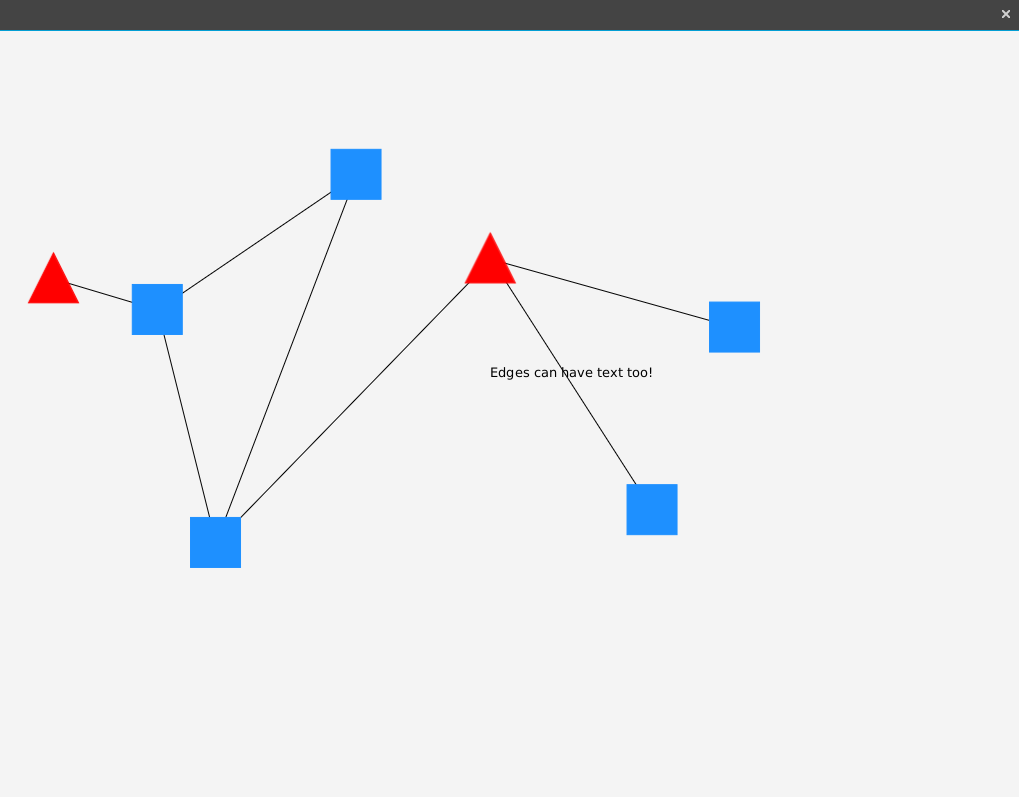
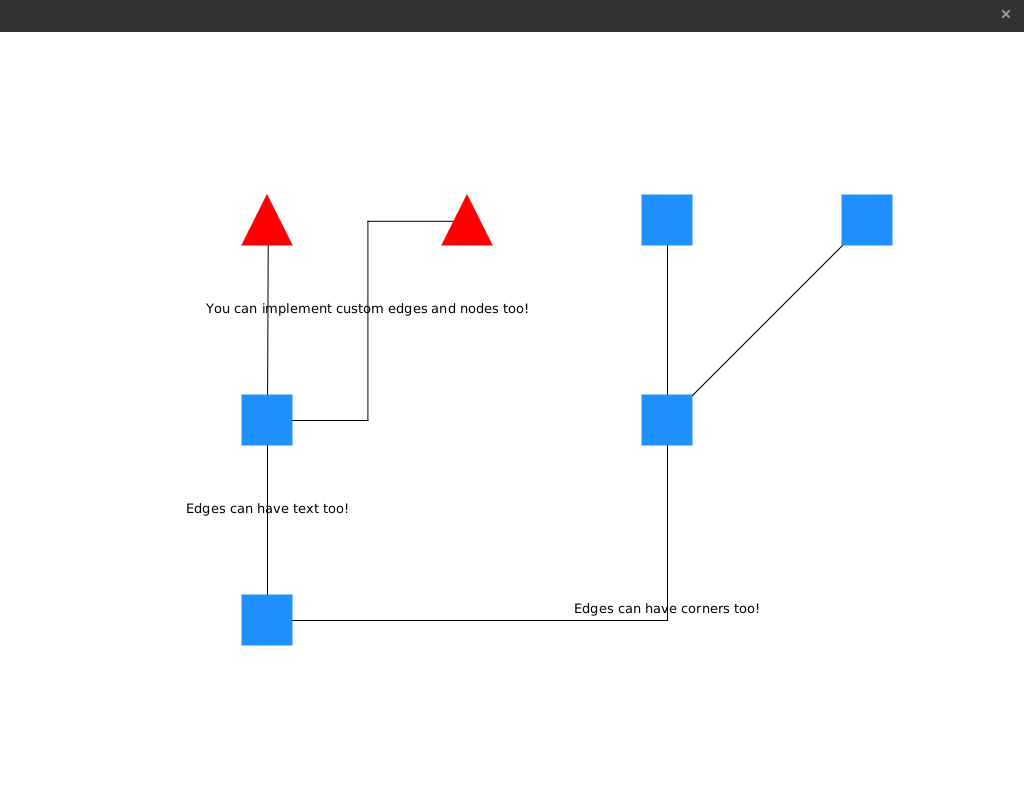
Update screenshot

diff --git a/src/main/java/com/fxgraph/graph/MainApp.java b/src/main/java/com/fxgraph/graph/MainApp.java
@@ -1,12 +1,17 @@
 package com.fxgraph.graph;
 
+import org.abego.treelayout.Configuration.Location;
+
 import com.fxgraph.cells.RectangleCell;
 import com.fxgraph.cells.TriangleCell;
+import com.fxgraph.edges.CorneredEdge;
+import com.fxgraph.edges.DoubleCorneredEdge;
 import com.fxgraph.edges.Edge;
 import com.fxgraph.layout.AbegoTreeLayout;
 import com.fxgraph.layout.RandomLayout;
 
 import javafx.application.Application;
+import javafx.geometry.Orientation;
 import javafx.scene.Scene;
 import javafx.scene.layout.BorderPane;
 import javafx.stage.Stage;
@@ -30,7 +35,7 @@ public class MainApp extends Application {
 		primaryStage.show();
 
 		addTreeComponents();
-		graph.layout(new AbegoTreeLayout());
+		graph.layout(new AbegoTreeLayout(200, 200, Location.Top));
 	}
 
 	@SuppressWarnings("unused")
@@ -95,10 +100,16 @@ public class MainApp extends Application {
 		model.addCell(cellF);
 		model.addCell(cellG);
 
-		model.addEdge(cellA, cellB);
-		model.addEdge(cellA, cellC);
+		final Edge edgeAB = new Edge(cellA, cellB);
+		edgeAB.textProperty().set("Edges can have text too!");
+		model.addEdge(edgeAB);
+		final CorneredEdge edgeAC = new CorneredEdge(cellA, cellC, Orientation.HORIZONTAL);
+		edgeAC.textProperty().set("Edges can have corners too!");
+		model.addEdge(edgeAC);
 		model.addEdge(cellB, cellD);
-		model.addEdge(cellB, cellE);
+		final DoubleCorneredEdge edgeBE = new DoubleCorneredEdge(cellB, cellE, Orientation.HORIZONTAL);
+		edgeBE.textProperty().set("You can implement custom edges and nodes too!");
+		model.addEdge(edgeBE);
 		model.addEdge(cellC, cellF);
 		model.addEdge(cellC, cellG);
 
